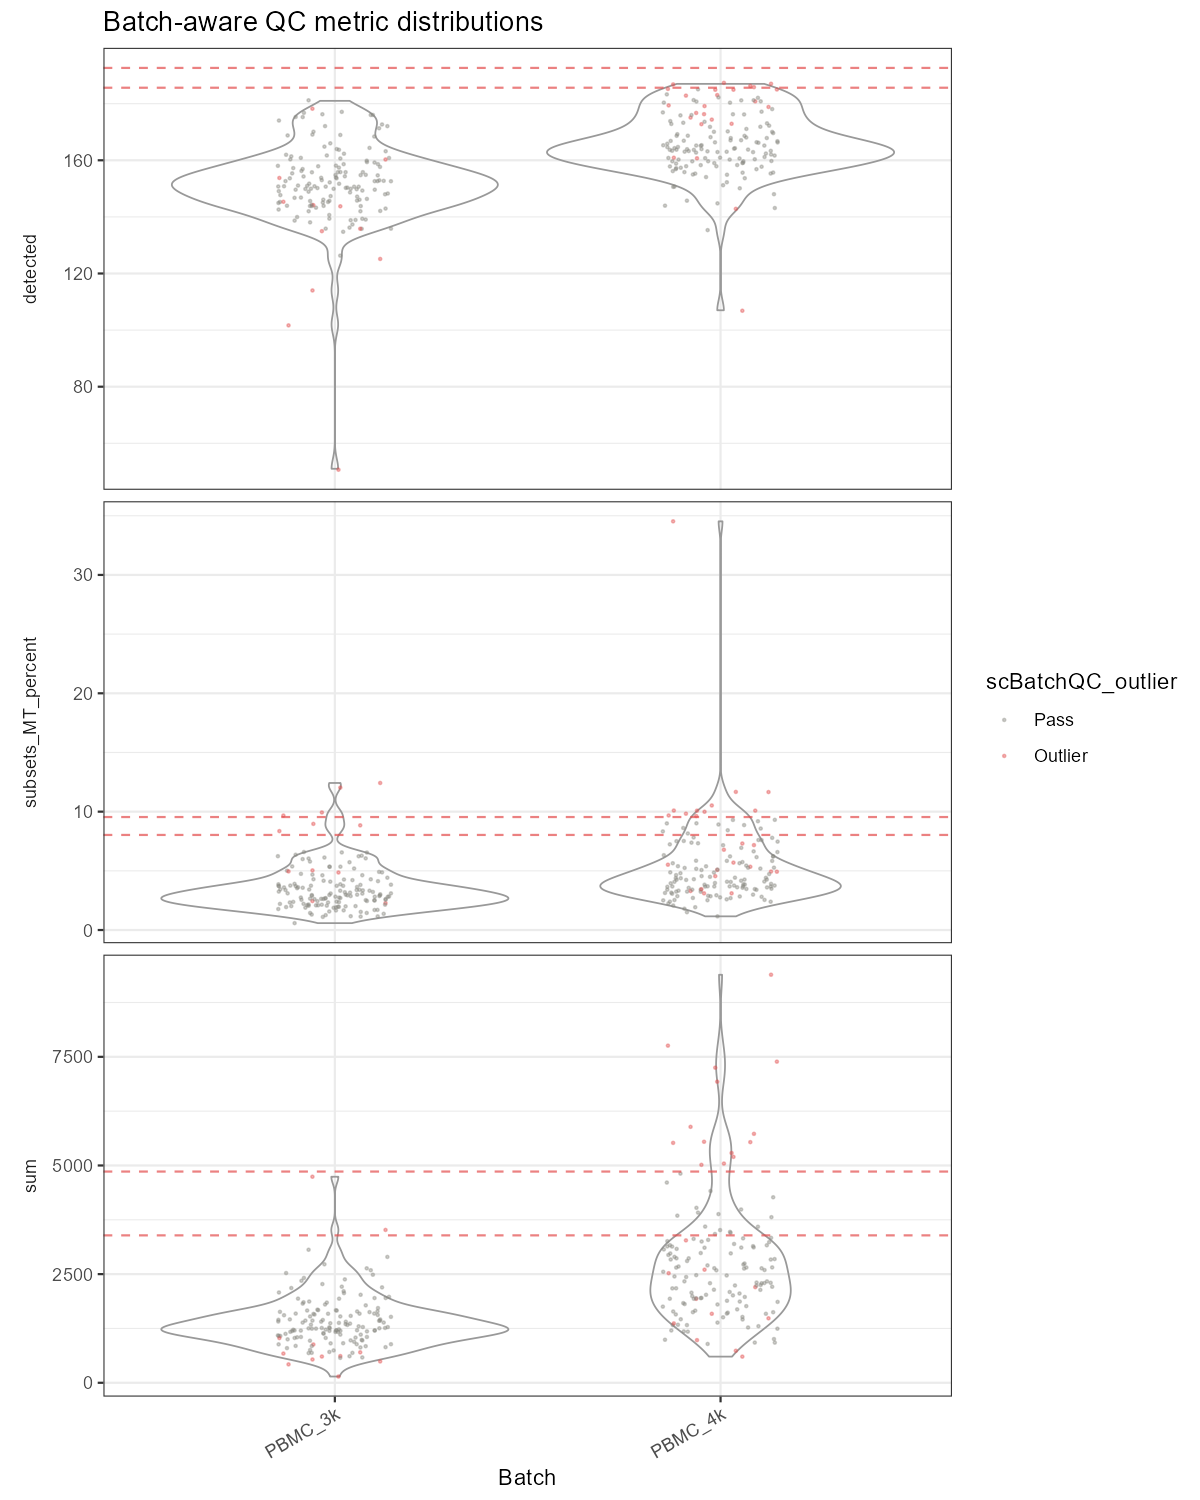
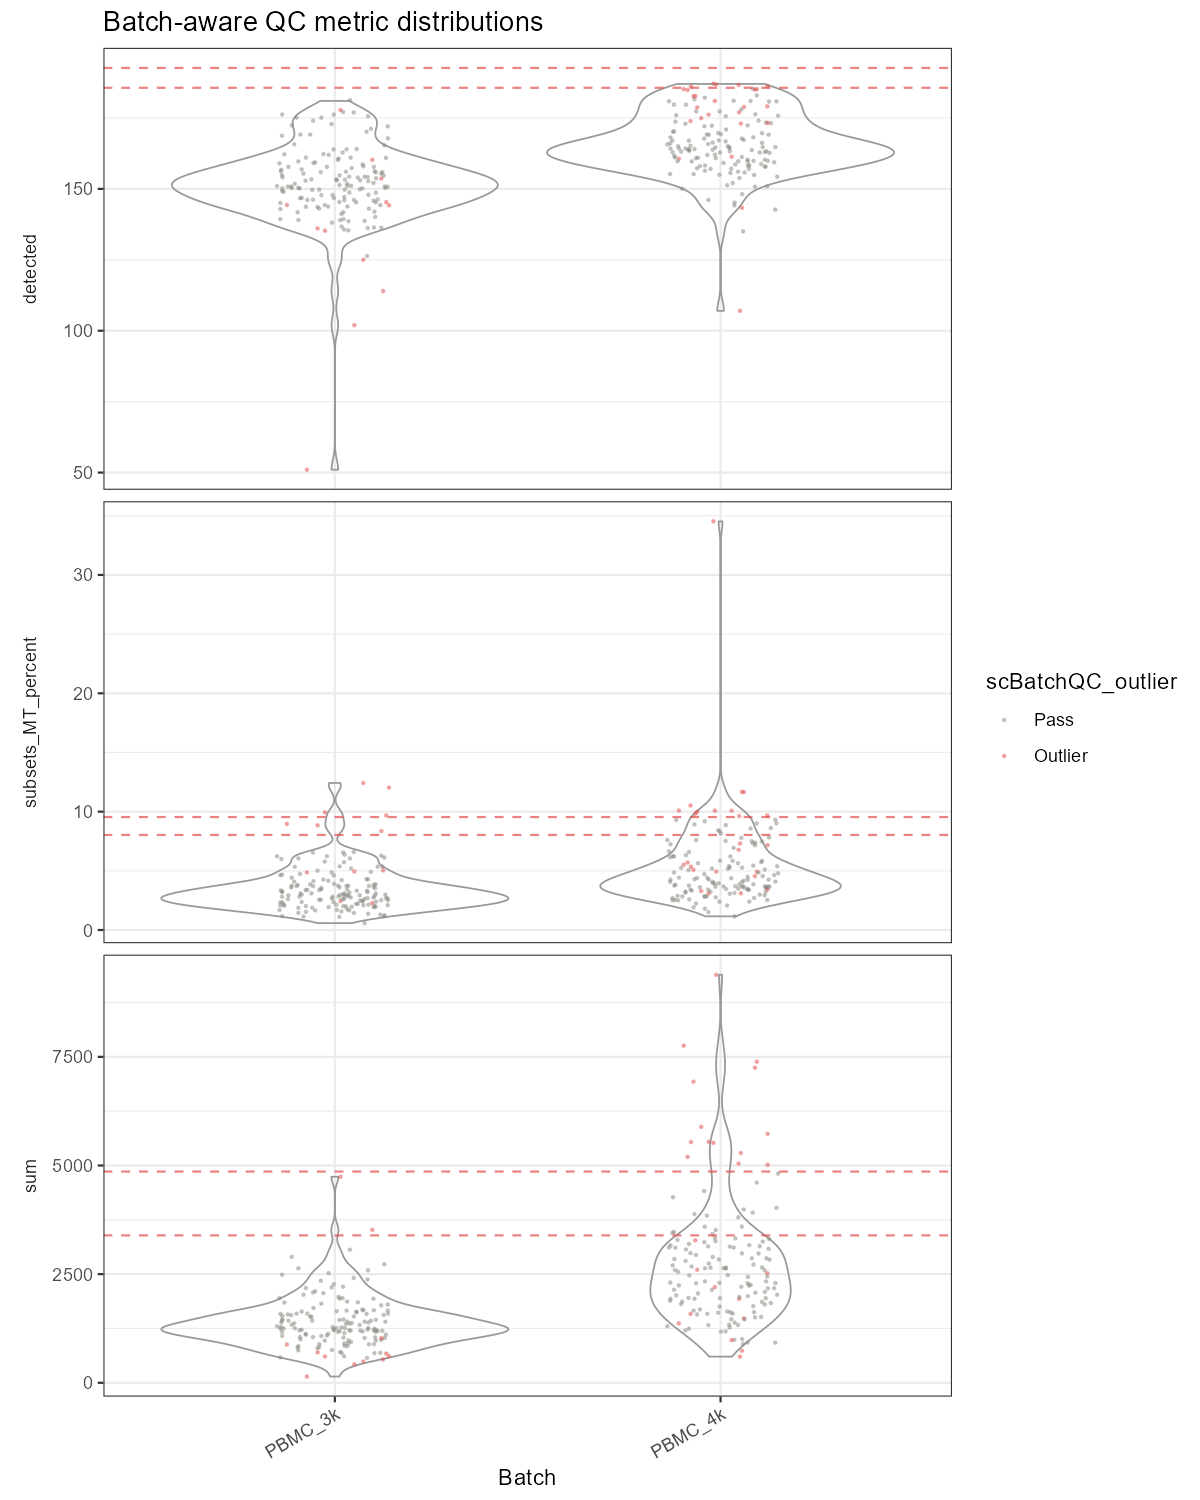
v0.99.2: stability improvements, updated QC backend and tests

diff --git a/NEWS.md b/NEWS.md
@@ -1,10 +1,20 @@
+# scBatchQC 0.99.2
+
+## Bug fixes
+
+* Improve overall stability.
+
 # scBatchQC 0.99.1
 
 ## Bug fixes
 
-* Removed `inst/CITATION` file lacking a DOI (Bioconductor BiocCheck WARNING).
 * Updated R version dependency from 4.5.0 to 4.6.0 to match Bioconductor 3.23.
-
+* Replaced deprecated `scuttle::perCellQCMetrics()` usage with
+  `scrapper::computeRnaQcMetrics()`, removing deprecation warnings from the
+  test suite while preserving existing `scBatchQC_*` output column names.
+* Updated generated imports and dependency metadata for the new `scrapper`
+  QC metric backend.
+  
 # scBatchQC 0.99.0
 
 ## New features